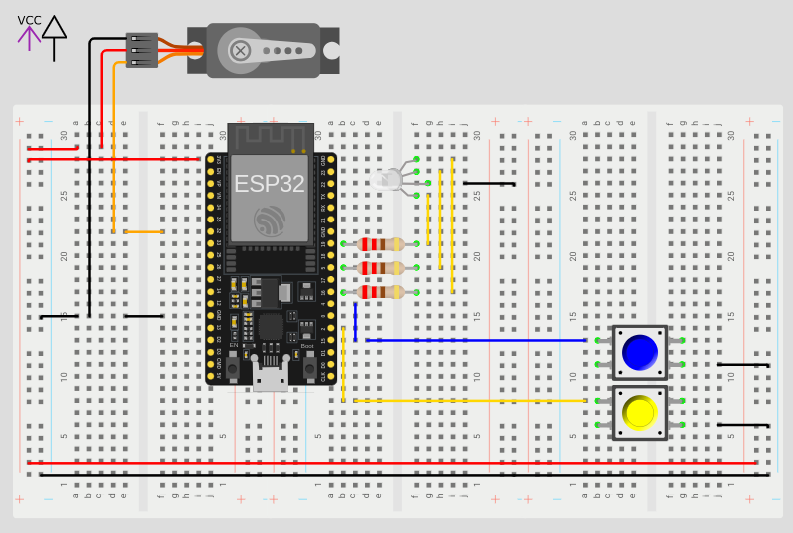
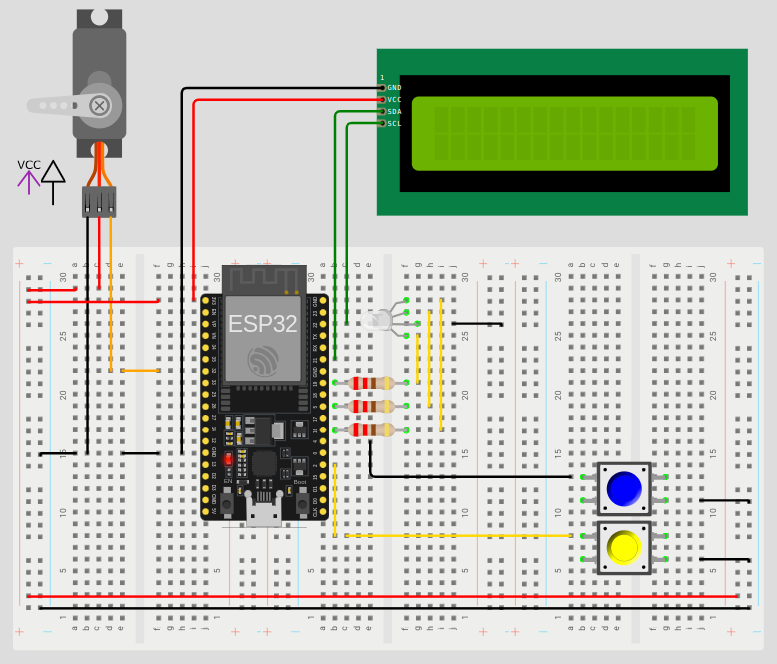
Entrega Final - Servo - Display

diff --git a/Entrega Final/Projeto 1 - Servo/src/main.cpp b/Entrega Final/Projeto 1 - Servo/src/main.cpp
@@ -1,5 +1,8 @@
 #include <ESP32Servo.h>
+#include <LiquidCrystal_I2C.h>
 #include <Arduino.h>
+
+LiquidCrystal_I2C lcd(0x27,16,2); //criando projeto cahmado lcd como seu tamanho
 
 // Servo
 #define SPWM 32
@@ -30,6 +33,8 @@ void IRAM_ATTR stopButtonPressed() {
 
 void setup() {
   Serial.begin(115200);
+  lcd.init();
+  lcd.backlight();
 
   // Set button pins as input with pull-up resistors
   pinMode(ButtonStart, INPUT_PULLUP);
@@ -42,6 +47,13 @@ void setup() {
   // Attach the servo to the pin with min and max pulse width
   servo.attach(SPWM, 500, 2500);
   servo.write(currentAngle);  // Set initial position to 0 degrees
+
+  lcd.setCursor(2,0);
+  lcd.print("Projeto Servo e Esp32");
+  lcd.setCursor(0,1);
+  lcd.print("Microcontroladores");
+  delay(4000); 
+  lcd.clear(); 
 }
 
 void loop() {
@@ -54,7 +66,14 @@ void loop() {
   if (stopPressed) {
     servo.detach(); // Detach the servo to stop it
     stopPressed = false; // Reset the stop flag
+    lcd.setCursor(2,0);
+    lcd.print("Sistema Parado");
+    lcd.setCursor(0,1);
+    lcd.print("Microcontroladores");
+    delay(4000); 
+    lcd.clear();
   }
+  
 }
 
 void moveServo() {
@@ -63,7 +82,13 @@ void moveServo() {
     if (stopPressed) return;  // Exit if stop button is pressed
     servo.write(currentAngle);
     delay(servoDelayUp);
+    lcd.setCursor(2,0);
+    lcd.print("Direita");
+    lcd.setCursor(0,1);
+    lcd.print("Microcontroladores");
   }
+
+  lcd.clear();
 
   delay(servoWaitTime); // Wait for 1 second at 180°
 
@@ -72,5 +97,12 @@ void moveServo() {
     if (stopPressed) return;  // Exit if stop button is pressed
     servo.write(currentAngle);
     delay(servoDelayDown);
+    lcd.setCursor(2,0);
+    lcd.print("Esquerda");
+    lcd.setCursor(0,1);
+    lcd.print("Microcontroladores");
+    // 
   }
+
+  lcd.clear();
 }

diff --git a/Entrega Final/README.md b/Entrega Final/README.md
@@ -25,6 +25,9 @@
 
 ```cpp
 #include <ESP32Servo.h>
+#include <LiquidCrystal_I2C.h>
+
+LiquidCrystal_I2C lcd(0x27,16,2); //criando projeto cahmado lcd como seu tamanho
 
 // Servo
 #define SPWM 32
@@ -55,6 +58,8 @@ void IRAM_ATTR stopButtonPressed() {
 
 void setup() {
   Serial.begin(115200);
+  lcd.init();
+  lcd.backlight();
 
   // Set button pins as input with pull-up resistors
   pinMode(ButtonStart, INPUT_PULLUP);
@@ -67,6 +72,13 @@ void setup() {
   // Attach the servo to the pin with min and max pulse width
   servo.attach(SPWM, 500, 2500);
   servo.write(currentAngle);  // Set initial position to 0 degrees
+
+  lcd.setCursor(2,0);
+  lcd.print("Projeto Servo e Esp32");
+  lcd.setCursor(0,1);
+  lcd.print("Microcontroladores");
+  delay(4000); 
+  lcd.clear(); 
 }
 
 void loop() {
@@ -79,7 +91,14 @@ void loop() {
   if (stopPressed) {
     servo.detach(); // Detach the servo to stop it
     stopPressed = false; // Reset the stop flag
+    lcd.setCursor(2,0);
+    lcd.print("Sistema Parado");
+    lcd.setCursor(0,1);
+    lcd.print("Microcontroladores");
+    delay(4000); 
+    lcd.clear();
   }
+  
 }
 
 void moveServo() {
@@ -88,7 +107,13 @@ void moveServo() {
     if (stopPressed) return;  // Exit if stop button is pressed
     servo.write(currentAngle);
     delay(servoDelayUp);
+    lcd.setCursor(2,0);
+    lcd.print("Direita");
+    lcd.setCursor(0,1);
+    lcd.print("Microcontroladores");
   }
+
+  lcd.clear();
 
   delay(servoWaitTime); // Wait for 1 second at 180°
 
@@ -97,8 +122,16 @@ void moveServo() {
     if (stopPressed) return;  // Exit if stop button is pressed
     servo.write(currentAngle);
     delay(servoDelayDown);
+    lcd.setCursor(2,0);
+    lcd.print("Esquerda");
+    lcd.setCursor(0,1);
+    lcd.print("Microcontroladores");
+    // 
   }
+
+  lcd.clear();
 }
+
 ```
 
 - **Vídeo:**
